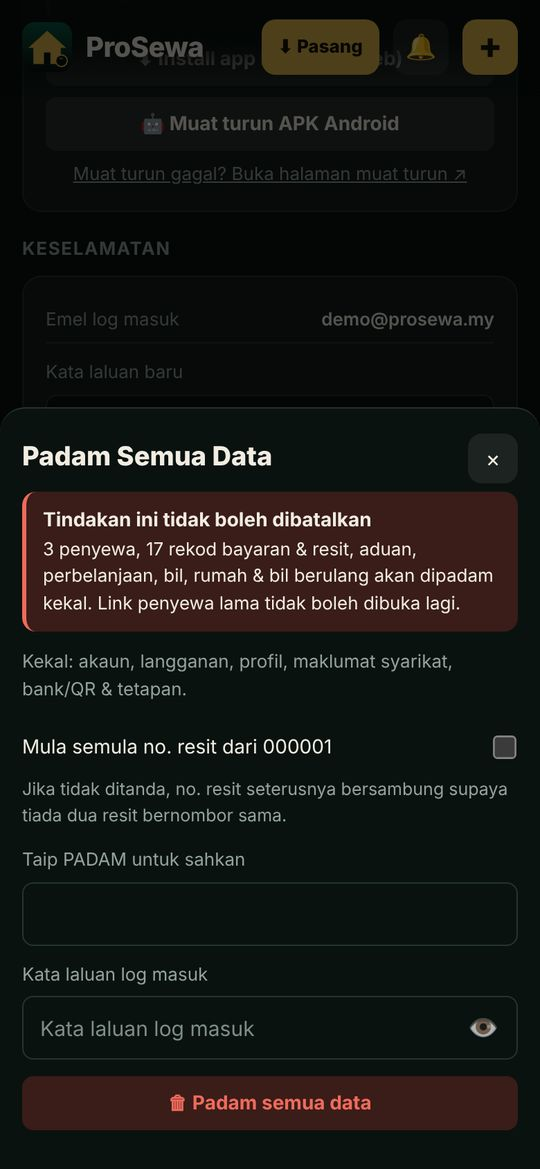
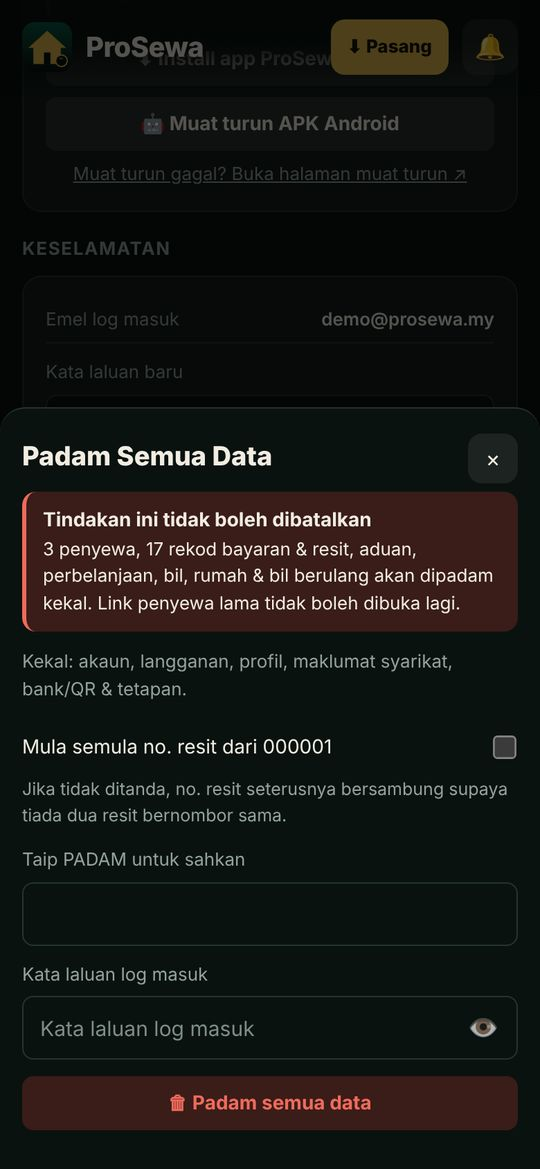
Buang butang + di header; butang '➕ Tambah penyewa' di tab Penyewa; manual & gambar dikemas kini
Claude-Session: https://claude.ai/code/session_017f1VMKQwjxZcuJmQN7U4w8

Changed region(s): [[0.4741, 0.0, 0.9778, 0.0616]]

diff --git a/index.html b/index.html
@@ -680,7 +680,7 @@ Object.assign(I18N, {
   'Cuba dengan data contoh': 'Try with sample data', 'Data contoh': 'Sample data', 'Set semula': 'Reset',
   'Versi percubaan: data disimpan dalam peranti ini. Selepas disambung ke pelayan, link penyewa boleh dibuka di phone penyewa.': "Trial version: data is stored on this device. After connecting to the server, tenant links will open on tenants' phones.",
   'Nama anda': 'Your name', 'Min 4 aksara': 'Min 4 characters', 'cth:': 'e.g.', 'nama@email.com': 'name@email.com', 'Kata laluan anda': 'Your password',
-  'Penyewa': 'Tenants', 'Senarai penyewa.': 'Tenant list.', 'tekan + di atas untuk tambah penyewa.': 'tap + above to add a tenant.', 'Tekan + di atas untuk tambah penyewa baru.': 'Tap + above to add a new tenant.',
+  'Penyewa': 'Tenants', 'Senarai penyewa.': 'Tenant list.', 'tekan ➕ Tambah penyewa untuk penyewa baru.': 'tap ➕ Add tenant for a new tenant.', 'Tekan ➕ Tambah penyewa untuk mula.': 'Tap ➕ Add tenant to start.', '➕ Tambah penyewa': '➕ Add tenant', 'di atas untuk mula.': 'above to start.',
   'Belum ada penyewa.': 'No tenants yet.', 'Tekan': 'Tap', 'di kanan atas untuk tambah.': 'at the top right to add.',
   'Sudah bayar': 'Paid', 'Tertunggak': 'Overdue', 'Belum bayar': 'Unpaid', 'Menunggu semakan': 'Awaiting review', 'Bayar separa': 'Part paid', 'Semak': 'Review',
   'Hari lewat': 'Days late', 'Hari lagi': 'Days left', 'Hari ini': 'Today', 'Dibayar': 'Paid',
@@ -1693,7 +1693,7 @@ function renderOwner() {
   if (si && S.tab !== 'sub' && warn) { const w = $('.wrap'); if (w) w.insertAdjacentHTML('afterbegin', `<div class="al ${si.active ? '' : 'hot'}" data-act="tab" data-id="sub" style="cursor:pointer"><b>${si.active ? `💎 Langganan tamat dalam ${si.days} hari` : '⛔ Langganan ProSewa telah tamat'}</b>${si.active ? 'Perbaharui sekarang supaya tiada gangguan.' : 'Anda tidak boleh tambah penyewa baru. Tekan untuk perbaharui.'}</div>`); }
 }
 const activeT = () => S.tenants.filter(t => t.active !== false);
-const ownerBtns = () => { const pend = S.payments.filter(p => p.status === 'pending').length; return instBtn() + hb('tab', '🔔', 'Bukti bayaran', pend, '', 'status') + hb('tenantForm', '+', 'Tambah penyewa', 0, 'add'); };
+const ownerBtns = () => { const pend = S.payments.filter(p => p.status === 'pending').length; return instBtn() + hb('tab', '🔔', 'Bukti bayaran', pend, '', 'status'); };
 
 /* ===================== HARTANAH (rumah & bilik) ===================== */
 const unitsOf = p => p.type === 'whole' ? [{id: 'whole', name: 'Seluruh unit', rent: +p.rent || 0}] : (p.rooms || []);
@@ -1760,16 +1760,16 @@ function oTenants() {
   const cm = S.month, list = activeT().filter(t => !t.startDate || t.startDate.slice(0, 7) <= cm);
   const st = list.map(t => ({t, s: monthStatus(t, cm, S.payments)}));
   const paid = st.filter(x => x.s.code === 'paid').length, late = st.filter(x => tcCls(x.s) === 'hot').length;
-  let h = header('Penyewa', 'Senarai penyewa.', list.length ? `${monthLabel(cm)} · tekan + di atas untuk tambah penyewa.` : 'Tekan + di atas untuk tambah penyewa baru.',
+  let h = header('Penyewa', 'Senarai penyewa.', list.length ? `${monthLabel(cm)} · tekan ➕ Tambah penyewa untuk penyewa baru.` : 'Tekan ➕ Tambah penyewa untuk mula.',
     {btns: ownerBtns(), stats: [[list.length, 'Penyewa'], [paid, 'Sudah bayar', 'g'], [late, 'Tertunggak', late ? 'r' : '']]}) + `<div class="wrap">`;
   const pv = S.tenView === 'props', vac = propStats().tot - propStats().occ;
   h += `<div class="seg"><button class="${pv ? '' : 'on'}" data-act="tenView" data-id="list">👥 Penyewa</button><button class="${pv ? 'on' : ''}" data-act="tenView" data-id="props">🏠 Hartanah${vac > 0 ? ` · ${vac} kosong` : ''}</button></div>`;
   if (pv) return h + oProps() + `</div>`;
-  h += monthNav(cm) + fqBox(list.length);
+  h += `<button class="btn wide" style="margin:0 0 12px" data-act="tenantForm">➕ Tambah penyewa</button>` + monthNav(cm) + fqBox(list.length);
   const ending = list.filter(t => t.contractEnd && ctInfo(t).soon).sort((a, b) => a.contractEnd.localeCompare(b.contractEnd));
   if (ending.length) h += `<div class="al hot"><b>📄 Kontrak hampir tamat (${ending.length})</b>${ending.map(t => `<div style="display:flex;gap:8px;align-items:center;justify-content:space-between;margin-top:6px"><span><span data-raw>${esc(t.name)}</span> · ${ctLabel(t)}</span><button class="btn sm" data-act="renewForm" data-id="${t.id}">Perbaharui</button></div>`).join('')}</div>`;
-  if (!list.length && !S.tenants.length) return h + `<div class="empty">Belum ada penyewa.<br>Tekan <b>+</b> di kanan atas untuk tambah.</div></div>`;
-  if (!list.length) h += `<div class="empty">Tiada penyewa aktif.<br>Tekan <b>+</b> di kanan atas untuk tambah.</div>`;
+  if (!list.length && !S.tenants.length) return h + `<div class="empty">Belum ada penyewa.<br>Tekan <b>➕ Tambah penyewa</b> di atas untuk mula.</div></div>`;
+  if (!list.length) h += `<div class="empty">Tiada penyewa aktif.<br>Tekan <b>➕ Tambah penyewa</b> di atas untuk mula.</div>`;
   h += list.length ? `<div class="card tlist">${st.map(({t, s}, i) => `<div class="trow fq" data-q="${esc((t.name + ' ' + (t.address || '') + ' ' + (t.phone || '')).toLowerCase())}" data-act="tenantView" data-id="${t.id}"><span class="num">${i + 1}</span><div class="grow"><div class="t" data-raw>${esc(t.name)}</div><div class="s"><span data-raw>${esc(t.address || '-')}</span> · ${RM(s.rent)}</div>${t.contractEnd && ctInfo(t).soon ? `<div class="s" style="color:var(--red)">📄 ${ctLabel(t)}</div>` : ''}${arrNote(t)}</div>${payBig(s, cm)}</div>`).join('')}</div>
     <p class="muted" style="text-align:center;font-size:12.5px">Tekan nama penyewa untuk butiran, link & tindakan.</p>` : '';
   const past = S.tenants.filter(t => t.active === false).sort((a, b) => String(b.moveOut || b.endedAt || '').localeCompare(String(a.moveOut || a.endedAt || '')));
@@ -2038,8 +2038,8 @@ const MANUAL = [
   '<ol><li>Pergi ke <b>Tetapan → Profil & maklumat bayaran</b>: isi nama, telefon, bank, no. akaun dan muat naik <b>QR DuitNow</b> anda. Penyewa nampak maklumat ini.</li><li>Di <b>Maklumat syarikat</b>: muat naik logo, nama & alamat syarikat, No. SSM/SST dan awalan no. resit. Ini muncul pada resit.</li><li>Di <b>Peringatan automatik</b>: pilih berapa hari sebelum tarikh bayar & jam notifikasi dihantar kepada penyewa.</li><li>Tekan <b>🔔 Aktifkan notifikasi phone</b>, kemudian <b>🧪 Uji notifikasi</b>.</li></ol><p>Lepas setiap kemas kini, tekan <b>🆕 Apa yang baru</b> di Tetapan untuk lihat perubahan.</p>',
   '<ol><li>Go to <b>Settings → Profile & payment details</b>: enter your name, phone, bank, account number and upload your <b>DuitNow QR</b>. Tenants see these details.</li><li>Under <b>Company details</b>: upload your logo, company name & address, SSM/SST numbers and receipt prefix. These appear on receipts.</li><li>Under <b>Automatic reminders</b>: choose how many days before the due date & what time tenants are notified.</li><li>Tap <b>🔔 Enable phone notifications</b>, then <b>🧪 Test notification</b>.</li></ol><p>After every update, tap <b>🆕 What\'s new</b> in Settings to see the changes.</p>'],
  ['👥 Tambah penyewa & hantar link', '👥 Add tenants & send their link',
-  '<ol><li>Tekan butang <b>+</b> di atas. Isi nama, telefon, alamat (rumah / bilik), sewa, deposit, tarikh bayar, tarikh mula & <b>tamat kontrak</b>.</li><li>Selepas simpan, tekan <b>Hantar link via WhatsApp</b>. Penyewa cuma buka link itu, <b>tiada login</b>.</li><li>Tab <b>Penyewa</b> tunjuk senarai ringkas dengan status besar <b>DIBAYAR / BELUM BAYAR</b>. Tekan nama penyewa untuk butiran, sejarah 6 bulan, link, edit, perbaharui & tamatkan sewa.</li><li>Penyewa Android boleh pasang <b>APK ProSewa Penyewa</b> dan tampal link sekali sahaja.</li><li>Link tersebar? Buka penyewa → <b>Tukar link</b>. Link lama terus tidak boleh digunakan.</li></ol>',
-  '<ol><li>Tap the <b>+</b> button at the top. Enter name, phone, address (house / room), rent, deposit, due day, start date & <b>tenancy end</b>.</li><li>After saving, tap <b>Send link via WhatsApp</b>. Tenants just open the link, <b>no login</b>.</li><li>The <b>Tenants</b> tab shows a compact list with a big <b>PAID / UNPAID</b> status. Tap a tenant for details, 6-month history, link, edit, renew & end tenancy.</li><li>Android tenants can install the <b>ProSewa Tenant APK</b> and paste the link once.</li><li>Link leaked? Open the tenant → <b>Change link</b>. The old link stops working immediately.</li></ol>'],
+  '<ol><li>Di tab <b>Penyewa</b>, tekan <b>➕ Tambah penyewa</b>. Isi nama, telefon, alamat (rumah / bilik), sewa, deposit, tarikh bayar, tarikh mula & <b>tamat kontrak</b>.</li><li>Selepas simpan, tekan <b>Hantar link via WhatsApp</b>. Penyewa cuma buka link itu, <b>tiada login</b>.</li><li>Tab <b>Penyewa</b> tunjuk senarai ringkas dengan status besar <b>DIBAYAR / BELUM BAYAR</b>. Tekan nama penyewa untuk butiran, sejarah 6 bulan, link, edit, perbaharui & tamatkan sewa.</li><li>Penyewa Android boleh pasang <b>APK ProSewa Penyewa</b> dan tampal link sekali sahaja.</li><li>Link tersebar? Buka penyewa → <b>Tukar link</b>. Link lama terus tidak boleh digunakan.</li></ol>',
+  '<ol><li>In the <b>Tenants</b> tab, tap <b>➕ Add tenant</b>. Enter name, phone, address (house / room), rent, deposit, due day, start date & <b>tenancy end</b>.</li><li>After saving, tap <b>Send link via WhatsApp</b>. Tenants just open the link, <b>no login</b>.</li><li>The <b>Tenants</b> tab shows a compact list with a big <b>PAID / UNPAID</b> status. Tap a tenant for details, 6-month history, link, edit, renew & end tenancy.</li><li>Android tenants can install the <b>ProSewa Tenant APK</b> and paste the link once.</li><li>Link leaked? Open the tenant → <b>Change link</b>. The old link stops working immediately.</li></ol>'],
  ['🏘 Rumah & bilik (Hartanah)', '🏘 Houses & rooms (Properties)',
   '<ol><li>Di tab <b>Penyewa</b>, tekan <b>🏠 Hartanah</b> → <b>Tambah rumah</b>. Pilih <b>Sewa bilik</b> (senaraikan bilik & sewa) atau <b>Seluruh rumah / unit</b>.</li><li>Bilik tanpa penyewa ditanda <b>kosong</b>, dengan bilangan hari dan sewa yang hilang sebulan. Tekan <b>+ Masukkan penyewa</b> terus dari bilik itu.</li><li>Penyewa sedia ada: tekan ✏ Edit dan pilih <b>Rumah / bilik</b>.</li><li>Bila sewa ditamatkan (🚪), bilik terus jadi kosong. Laporan cukai dikira ikut rumah.</li></ol><p>Pilihan sahaja: penyewa tanpa rumah tetap berfungsi seperti biasa.</p>',
   '<ol><li>In the <b>Tenants</b> tab, tap <b>🏠 Properties</b> → <b>Add property</b>. Choose <b>Room rental</b> (list the rooms & rent) or <b>Whole house / unit</b>.</li><li>Rooms without a tenant are marked <b>vacant</b>, with the number of days and the rent lost per month. Tap <b>+ Add tenant</b> straight from that room.</li><li>Existing tenants: tap ✏ Edit and choose a <b>Property / room</b>.</li><li>When a tenancy ends (🚪), the room becomes vacant automatically. The tax report is grouped by property.</li></ol><p>Optional: tenants without a property keep working as usual.</p>'],
@@ -2156,7 +2156,7 @@ function whatsNew() {
 // Gambar manual (shots/manual/*.jpg) + keterangan di bawah gambar, ikut susunan topik MANUAL
 const MANUAL_IMG = [
  [['m01a', 'Maklumat syarikat: logo, nama & alamat yang keluar pada resit.', 'Company details: the logo, name & address shown on receipts.'], ['m01b', 'Profil & maklumat bayaran: bank, no. akaun & QR DuitNow untuk penyewa.', 'Profile & payment details: bank, account no. & DuitNow QR for tenants.']],
- [['m02a', 'Tekan + di atas untuk buka borang tambah penyewa.', 'Tap + at the top to open the add-tenant form.'], ['m02b', 'Link khas penyewa: hantar via WhatsApp atau salin.', 'Private tenant link: send via WhatsApp or copy.'], ['m02c', 'Senarai penyewa dengan status bayaran. Pilih bulan dengan ‹ › atau senarai bulan.', 'Tenant list with payment status. Choose the month with ‹ › or the month list.'], ['m02d', 'Tekan nama: butiran, sejarah 6 bulan & semua tindakan.', 'Tap a name: details, 6-month history & all actions.']],
+ [['m02a', 'Tekan ➕ Tambah penyewa di tab Penyewa untuk buka borang.', 'Tap ➕ Add tenant in the Tenants tab to open the form.'], ['m02b', 'Link khas penyewa: hantar via WhatsApp atau salin.', 'Private tenant link: send via WhatsApp or copy.'], ['m02c', 'Senarai penyewa dengan status bayaran. Pilih bulan dengan ‹ › atau senarai bulan.', 'Tenant list with payment status. Choose the month with ‹ › or the month list.'], ['m02d', 'Tekan nama: butiran, sejarah 6 bulan & semua tindakan.', 'Tap a name: details, 6-month history & all actions.']],
  [['m03', 'Hartanah: kadar penghunian, bilik kosong & sewa yang hilang.', 'Properties: occupancy, vacant rooms & lost rent.']],
  [['m04a', 'Tab Status: bukti bayaran baru di bahagian atas.', 'Status tab: new payment proofs at the top.'], ['m04b', 'Semak bayaran: semak jumlah sebenar diterima, tanda kotak, kemudian Lulus & hantar resit.', 'Review payment: check the actual amount received, tick the box, then Approve & send receipt.'], ['m04c', 'Resit bernombor dijana automatik.', 'A numbered receipt is created automatically.'], ['m04d', 'Bayaran manual untuk penyewa yang tak guna app.', 'Manual payment for tenants who don\'t use the app.']],
  [['m05', 'Belum bayar: Ingatkan, Bayaran manual atau WhatsApp.', 'Unpaid: Remind, Manual payment or WhatsApp.']],
